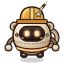
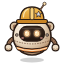
Cortado: original antenna and silver star on every hat; no visible wheels or tail
Restores the original hard-hat design and its antenna; the beanie, barista
beret and cup lid now carry the same antenna and silver star. Wheels and the
handle tail are hidden by default (it floats; the tail stays behind it), and
the coffee bean badge is back to a bolt. Cortado's backstory is recorded next
to the mascot in App.jsx. Icons regenerated.

Claude-Session: https://claude.ai/code/session_011WcNqT3TP7pNnC4TGZyJwm

diff --git a/src/App.jsx b/src/App.jsx
@@ -19,8 +19,13 @@ import SharePanel from './components/SharePanel.jsx';
 import TeamSlots from './components/TeamSlots.jsx';
 import TeamTabs from './components/TeamTabs.jsx';
 
-// Cortado, the mascot: a coffee-powered anomaly with a stirring-stick antenna,
-// a handle-shaped tail and retractable wheels. Clicking swaps its headwear.
+// Cortado, the mascot: an anomaly that runs on coffee. Its headwear doubles as
+// the lid over a hatch where coffee (or beans/powder and hot water) is poured
+// in, and every hat carries its silver star. It usually floats; retractable
+// wheels come out only when it's tired of floating or needs to dash. Its
+// cream-and-brown striped tail stays out of sight from the front: the tip wraps
+// into a handle at the back, used to carry it (or swing it in a fight).
+// Clicking the mascot swaps its headwear.
 const MASCOT_HATS = [
   { file: 'mascot.svg', label: 'Hard hat' },
   { file: 'mascot-beanie.svg', label: 'Knit beanie' },
